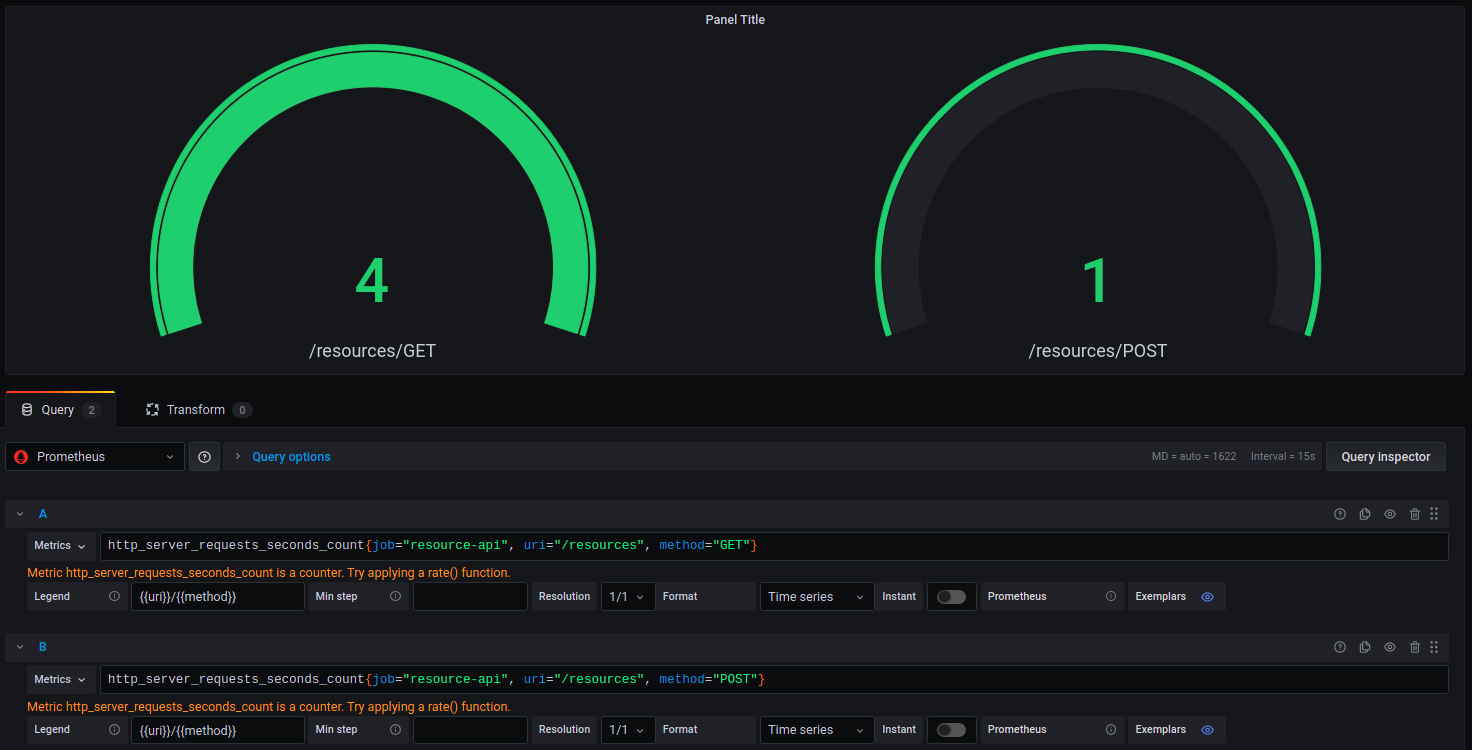
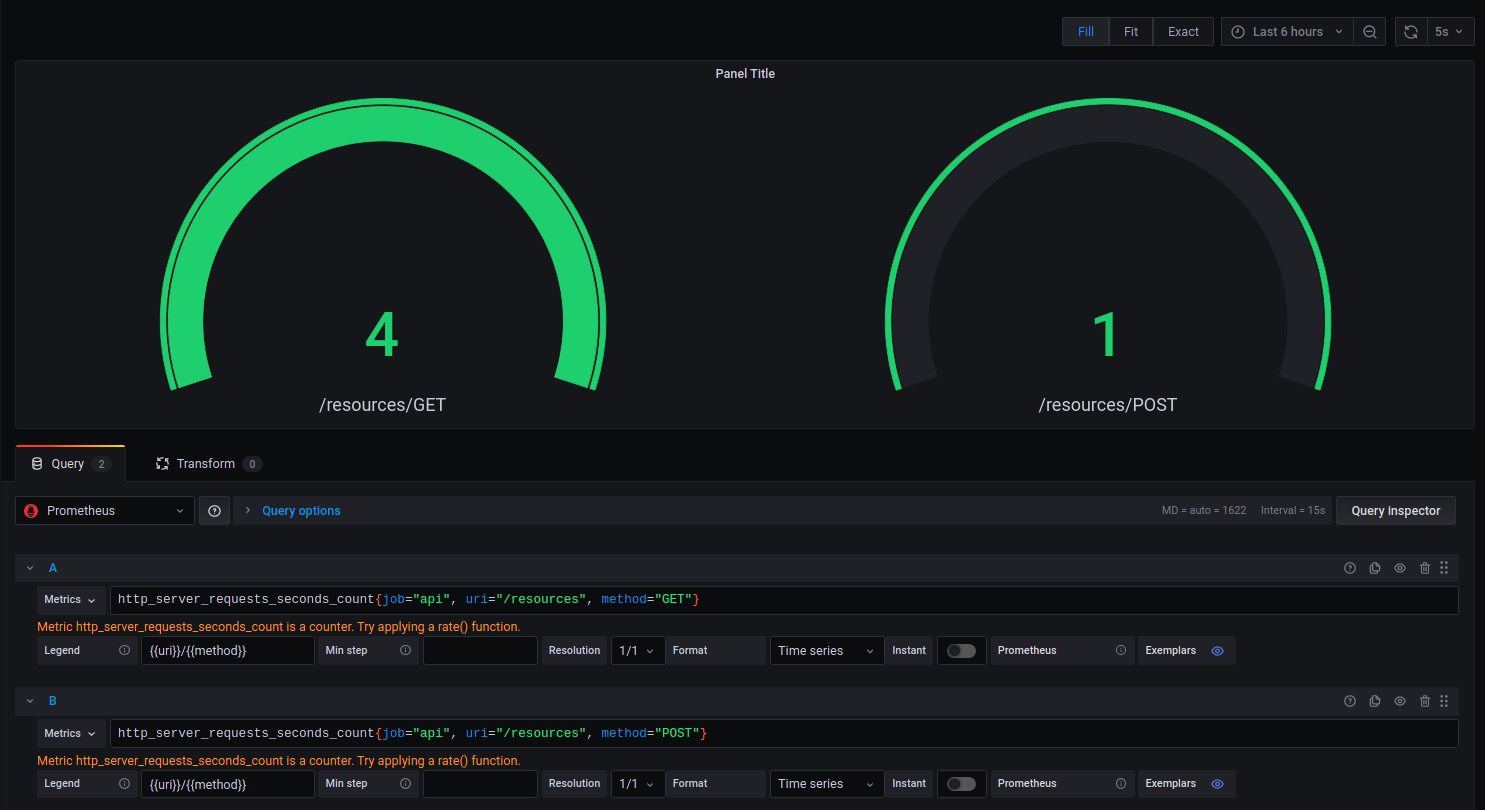
Update Readme.md

diff --git a/Readme.md b/Readme.md
@@ -26,7 +26,9 @@
 - #### https://github.com/thbrunzendorf/monitoring-demo
 - #### https://github.com/thukabjj/spring-boot-elasticsearch
 - #### https://github.com/fabricioveronez/live-loki
+- #### https://github.com/grafana/loki/blob/main/docs/sources/clients/promtail/configuration.md
 - #### https://github.com/ivangfr/springboot-elk-prometheus-grafana
+- #### https://github.com/opentracing-contrib/java-jdbc
 
 ## <span style="color:blue">Conteúdos indicados</span>
 ### Prometheus
@@ -34,7 +36,6 @@
 - #### https://medium.com/tech-grupozap/prometheus-monitorando-a-sa%C3%BAde-da-sua-aplica%C3%A7%C3%A3o-bd9b3b63e7b1
 
 ### Promtail + Loki
-- #### https://github.com/grafana/loki/blob/main/docs/sources/clients/promtail/configuration.md
 - #### https://www.youtube.com/watch?v=U_pLbS82iuA&t=2437s
 - #### https://www.youtube.com/watch?v=lT4lKs9tu00&t=3585s
 - #### https://medium.com/grafana-tutorials/logql-in-grafana-loki-ffc822a65f59 
@@ -42,7 +43,6 @@
 
 ### Jaeger
 - #### https://www.redhat.com/pt-br/o-que-%C3%A9-jaeger#:~:text=Jaeger%20%C3%A9%20um%20software%20open,em%20ambientes%20de%20microsservi%C3%A7os%20complexos.
-- #### https://github.com/opentracing-contrib/java-jdbc
 
 ### ELK (Elasticsearch, Logstash, Kibana)
 - #### https://medium.com/@davidcesc/elk-filebeat-for-container-logs-af71ce9cd53a
@@ -439,8 +439,9 @@ Data source connected and labels found.
 ![alt text](imgs/tools/grafana/config_dashboard.png)
 
 - Em *Metrics* no painel *Query* estão disponíveis os endpoints fornecidos pelo Prometheus
-- Neste momento vamos trabalhar com a seguinte query:
-- #### http_server_requests_seconds_count{job="resource-api", uri="/resources", method="GET"}
+- Neste momento vamos trabalhar com as seguintes queries:
+- #### http_server_requests_seconds_count{job="api", uri="/resources", method="GET"}
+- #### http_server_requests_seconds_count{job="api", uri="/resources", method="POST"}
 - Note que também é possível formatar a legenda para visualização, no campo *Legend*
 - #### {{uri}}/{{method}}
 - É possível parametrizar o tempo de atualização das informações com a opção *Refresh dashboard* -> *tempo* localizada no canto superior direito acima de *Panel Title*
